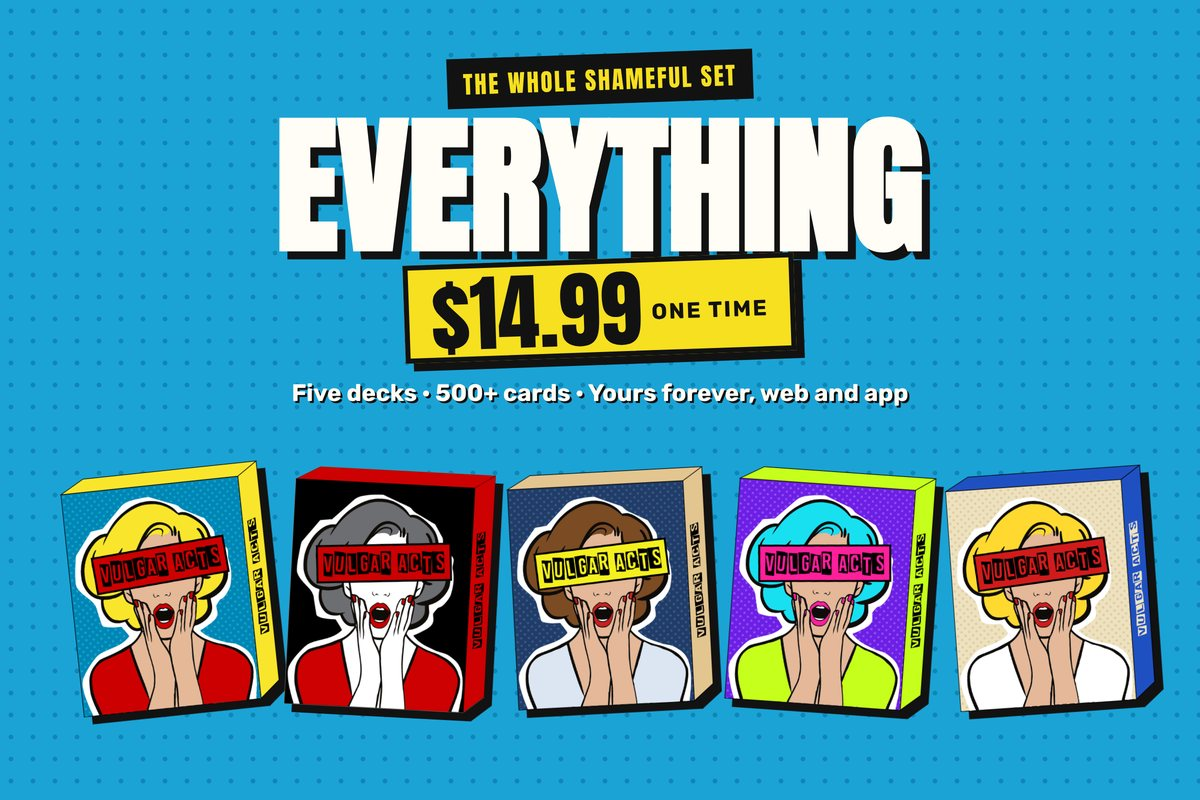
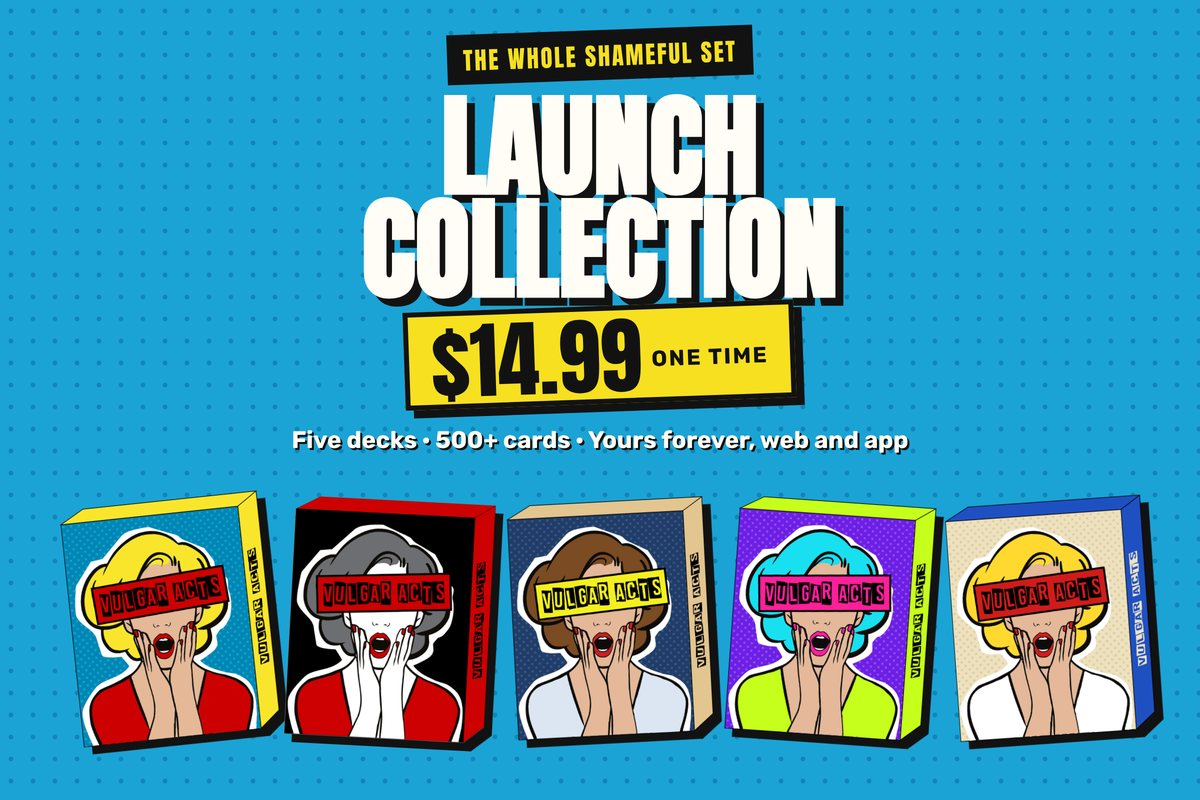
Store: art above the title; collection art retitled Launch Collection
Claude-Session: https://claude.ai/code/session_01PWZgQBmiwiUG2rQqdHJ5Lu

diff --git a/apps/web/src/Store.tsx b/apps/web/src/Store.tsx
@@ -49,15 +49,17 @@ export function Store() {
       {note && <p class="small ink"><b>{note}</b></p>}
       {cat && !cat.live && <p class="small ink">The store is in preview — nothing can be bought yet.</p>}
 
-      <Panel title="Launch Collection" tone="paper">
+      <Panel tone="paper" cls="offer">
         <img class="offerart" src="/img/everything.jpg" alt="" />
+        <h2>Launch Collection</h2>
         <p class="sub"><b>Five decks, 500+ cards, yours forever</b> — the full Starter plus After Dark, Office Party, Pop Culture Trash and Patent Rejected.</p>
         <div class="row between"><span class="price">{price("launch")} <small>one time</small></span><Btn sku="launch" label="Get the collection" /></div>
         <p class="small">Saves $2 on buying the five separately.</p>
       </Panel>
 
-      <Panel title="Vulgar Acts Pass" tone="dark">
+      <Panel tone="dark" cls="offer">
         <img class="offerart" src="/img/pass.jpg" alt="" />
+        <h2>Vulgar Acts Pass</h2>
         <p class="sub"><b>For the obsessed.</b> The Launch Collection to keep, plus every new deck the day it drops for as long as you're a member. Cancel anytime; the collection stays yours.</p>
         <div class="row between"><span class="price">{price("pass")}</span>{passActive ? <button class="owned" disabled>Active</button> : <Btn sku="pass" label="Get the Pass" />}</div>
       </Panel>

diff --git a/apps/web/src/styles.css b/apps/web/src/styles.css
@@ -228,7 +228,8 @@ button.tiny{padding:2px 8px;font-size:16px;box-shadow:2px 2px 0 var(--ink);backg
 
 .panel.dark{background:var(--ink);color:var(--paper);border-color:var(--red);box-shadow:5px 5px 0 var(--red)}
 .panel.dark h2{color:var(--paper)}.panel.dark .sub{color:var(--paper)}.panel.dark .small{color:#bbb}.panel.dark .small a{color:var(--paper)}
-.offerart{width:calc(100% + 32px);margin:-16px -16px 12px;display:block;border-bottom:3px solid var(--ink)}
+.panel.offer{padding-top:0}
+.offerart{width:calc(100% + 32px);margin:0 -16px 12px;display:block;border-bottom:3px solid var(--ink)}
 .founders{display:flex;align-items:center;gap:12px;background:var(--yellow);border:3px solid var(--ink);box-shadow:4px 4px 0 var(--ink);padding:12px 14px;font-size:14px;line-height:1.3;color:var(--ink)}
 .founders .count{display:inline-block;margin-left:6px;background:var(--ink);color:var(--yellow);font-family:var(--display);font-size:14px;padding:2px 7px;letter-spacing:.04em}
 .founders button{flex:0 0 auto;padding:8px 12px;font-size:15px}
